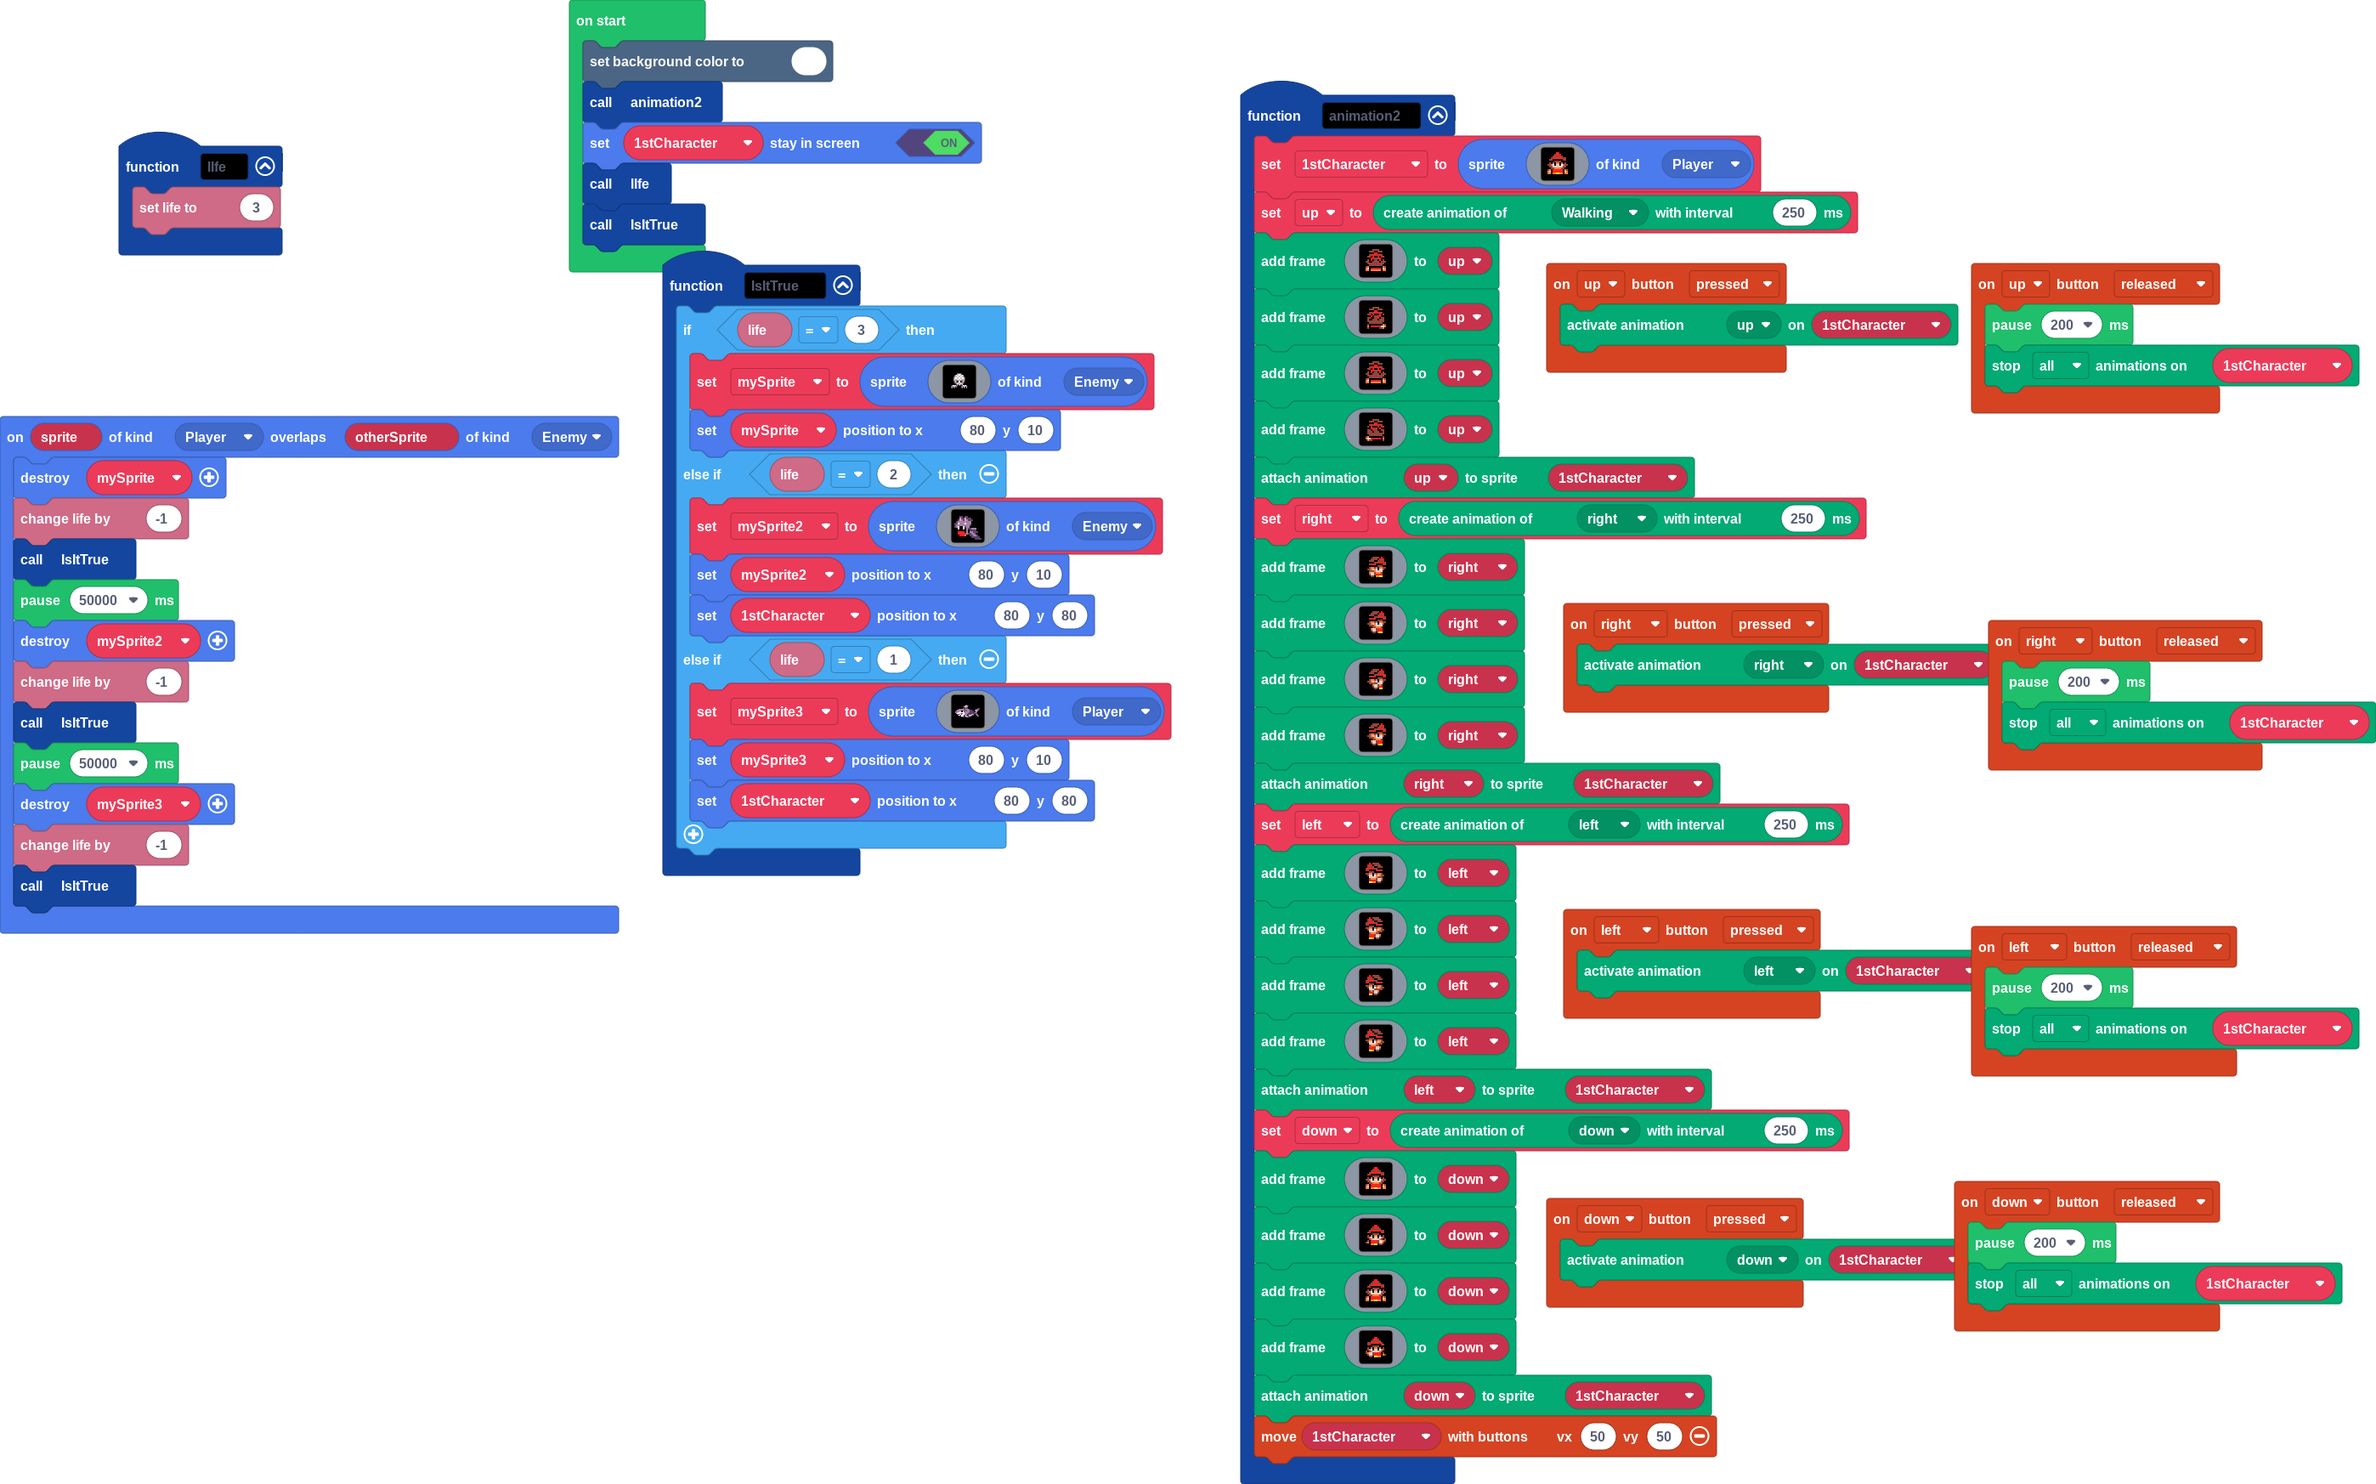
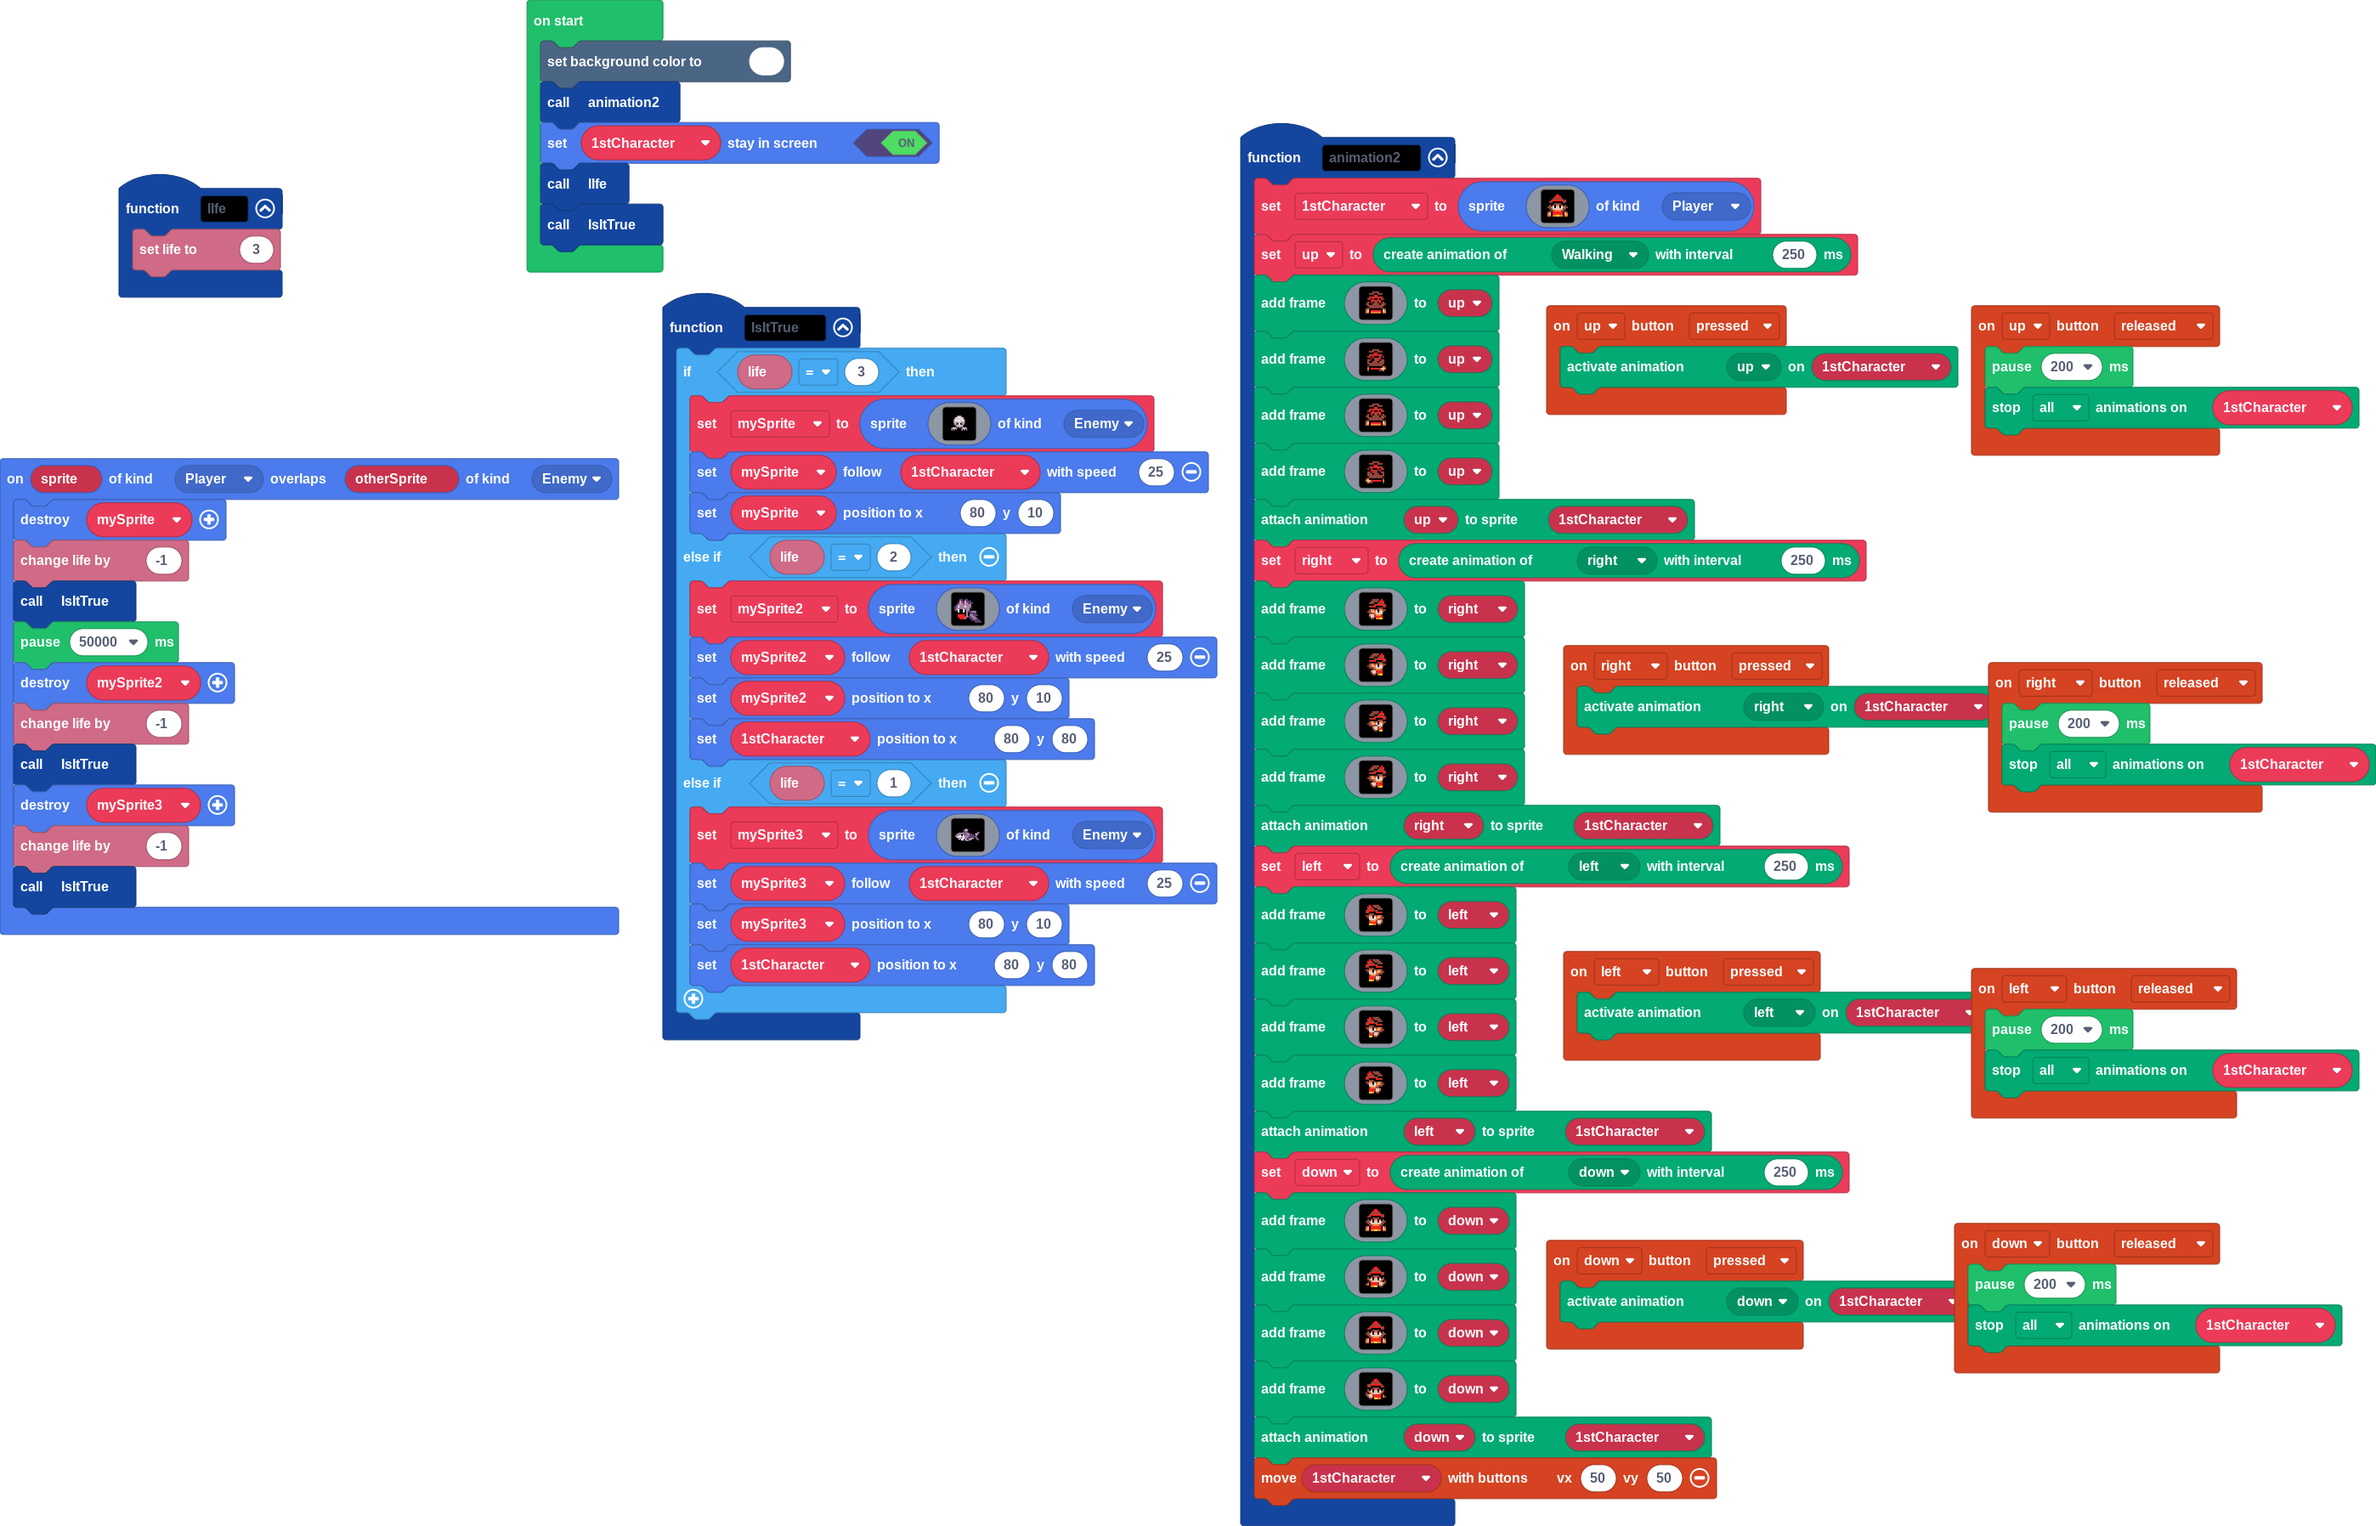
Update main.blocks, main.ts

Changed region(s): [[0.0, 0.0, 1.0, 0.9897], [0.0311, 0.0928, 0.1245, 0.2165]]

diff --git a/main.ts b/main.ts
@@ -373,6 +373,7 @@ function IsItTrue () {
             ........................
             ........................
             `, SpriteKind.Enemy)
+        mySprite.follow(_1stCharacter, 25)
         mySprite.setPosition(80, 10)
     } else if (info.life() == 2) {
         mySprite2 = sprites.create(img`
@@ -393,6 +394,7 @@ function IsItTrue () {
             . . . f f f f f f f c c c c c . 
             . . . . . . . . . . . . c c c c 
             `, SpriteKind.Enemy)
+        mySprite2.follow(_1stCharacter, 25)
         mySprite2.setPosition(80, 10)
         _1stCharacter.setPosition(80, 80)
     } else if (info.life() == 1) {
@@ -413,7 +415,8 @@ function IsItTrue () {
             ....fccc111fbdbbccdcc.....fbbf..
             ........ccccfcdbbcc........fff..
             .............fffff..............
-            `, SpriteKind.Player)
+            `, SpriteKind.Enemy)
+        mySprite3.follow(_1stCharacter, 25)
         mySprite3.setPosition(80, 10)
         _1stCharacter.setPosition(80, 80)
     }
@@ -436,7 +439,6 @@ sprites.onOverlap(SpriteKind.Player, SpriteKind.Enemy, function (sprite, otherSp
     mySprite2.destroy()
     info.changeLifeBy(-1)
     IsItTrue()
-    pause(50000)
     mySprite3.destroy()
     info.changeLifeBy(-1)
     IsItTrue()
